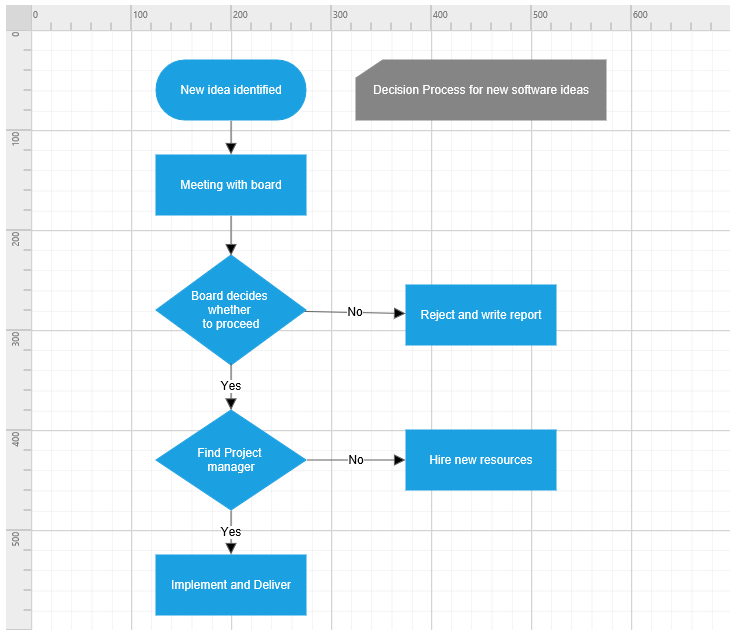
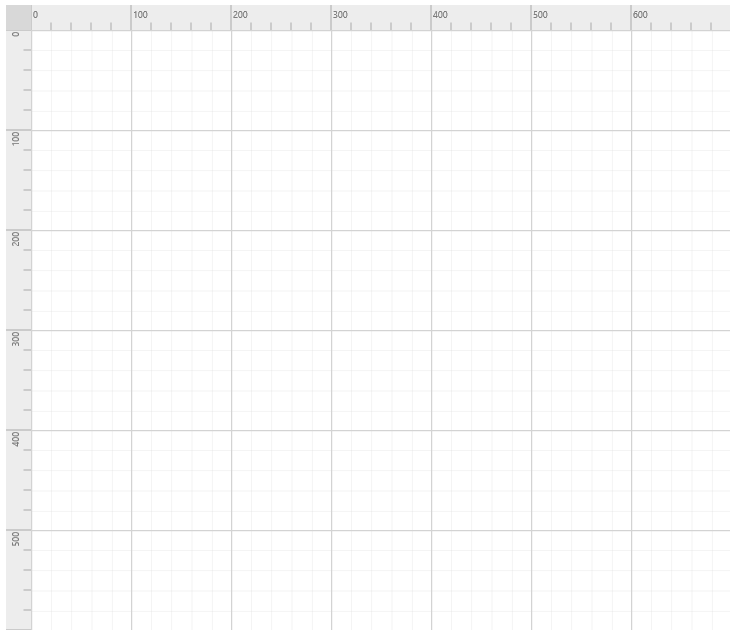
feature(JS-59572): Ruler has been added in Diagram

Changed region(s): [[0.211, 0.0905, 0.7836, 0.9952], [0.4822, 0.0905, 0.8438, 0.2111], [0.4521, 0.4524, 0.7836, 0.573]]

diff --git a/js-toc.html b/js-toc.html
@@ -467,6 +467,7 @@
             <li><a href="/js/diagram/swim-lane">Swim lane</a></li>
             <li><a href="/js/diagram/gridlines">Gridlines</a></li>
             <li><a href="/js/diagram/page-settings">Page Settings</a></li>
+            <li><a href="/js/diagram/ruler">Rulers</a></li>
             <li><a href="/js/diagram/interaction">Interaction</a></li>
             <li><a href="/js/diagram/undo-and-redo">Undo and Redo</a></li>
             <li><a href="/js/diagram/serialization">Serialization</a></li>

diff --git a/js/Diagram/Ruler.md b/js/Diagram/Ruler.md
@@ -30,7 +30,7 @@ $("#diagram").ejDiagram({
 
 {% endhighlight %}
 
-![](/js/Diagram/Rulers_images/Rulers_images1.png)
+![](/js/Diagram/Ruler_images/Rulers_images1.png)
 
 ## Customizing the Ruler
 
@@ -93,4 +93,4 @@ function arrangeTick(args) {
 
 {% endhighlight %}
 
-![](/js/Diagram/Rulers_images/Rulers_images2.png)
+![](/js/Diagram/Ruler_images/Rulers_images2.png)
